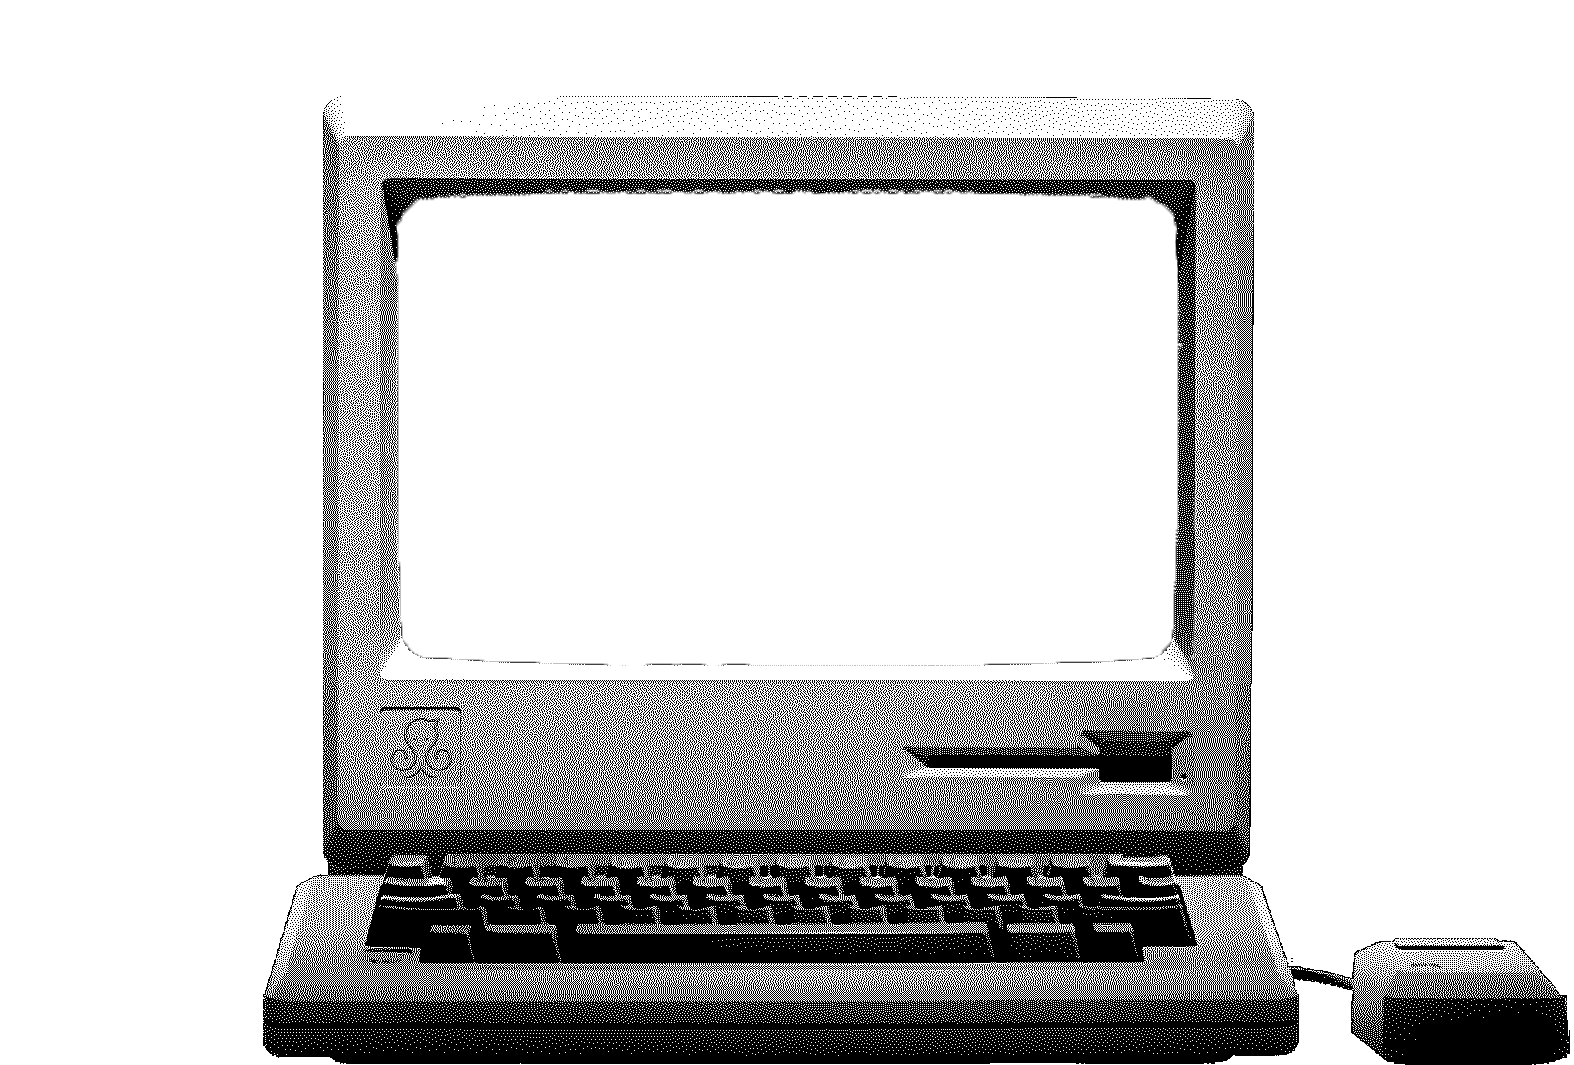
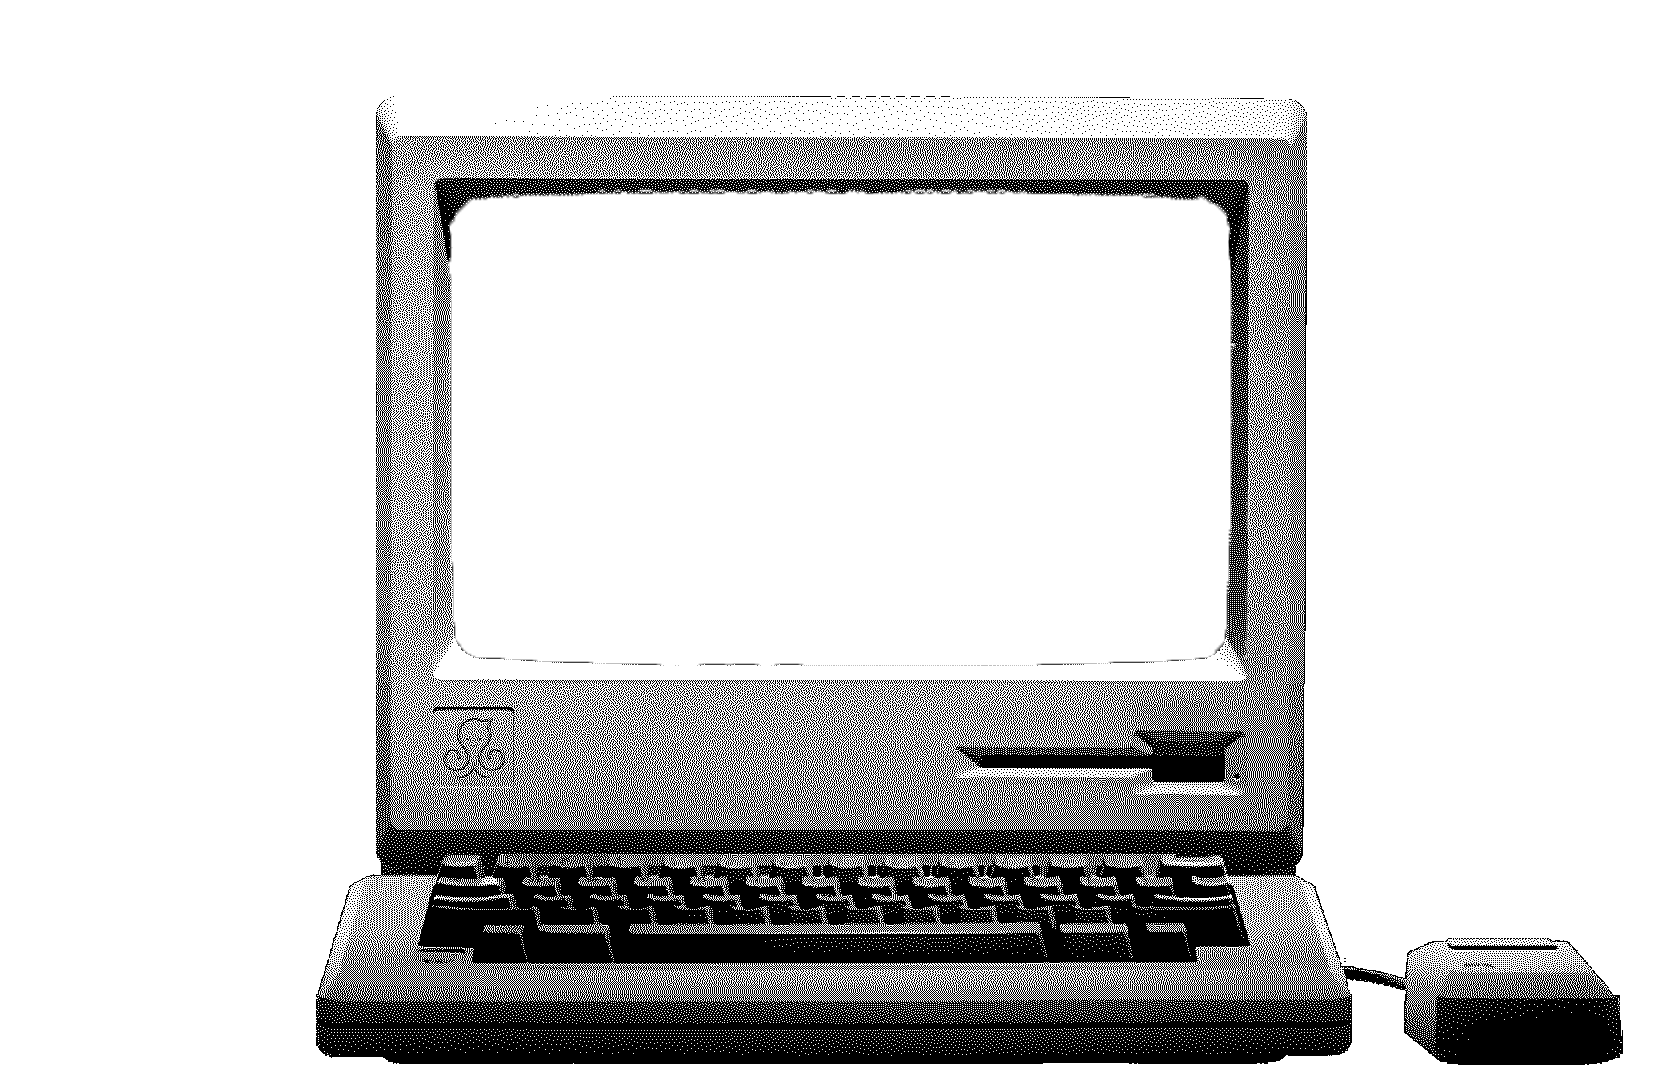
Align desktop asset to center

Changed region(s): [[0.1557, 0.093, 1.0, 1.0]]

diff --git a/src/GameScreen.tsx b/src/GameScreen.tsx
@@ -16,45 +16,43 @@ function GameScreen(props: {
   onLeaderboard: (props: IOnLeaderboard) => void;
 }) {
   const playerId = Math.floor(Math.random() * 100000);
-  const playerName = "Name";
+  const playerName = "iblan";
   const [isScoreScreen, setScoreScreen] = React.useState(false);
   const { state, tickId, duration, FPS, onLeaderboard } = props;
-  const Words = React.useMemo(
-    () =>
-      state?.words.map((word) => {
-        const { duration } = word;
-        const _word = word.getWord();
-        const typed = _word.substr(0, word.getTyped());
-        const cursor = typed ? _word.substr(word.getTyped(), 1) : null;
-        const notTyped = _word.substr(
-          typed ? word.getTyped() + 1 : word.getTyped()
-        );
+  const Words = React.useMemo(() => {
+    return state?.words.map((word) => {
+      const { duration } = word;
+      const _word = word.getWord();
+      const typed = _word.substr(0, word.getTyped());
+      const cursor = typed ? _word.substr(word.getTyped(), 1) : null;
+      const notTyped = _word.substr(
+        typed ? word.getTyped() + 1 : word.getTyped()
+      );
 
-        // duration min 500 max 10000
-        // 6000 - 60
-        const steps = Math.floor(duration / 110);
+      // duration min 500 max 10000
+      // 6000 - 60
+      const steps = Math.floor(duration / 110);
 
-        return (
-          <div
-            key={word.id}
-            className={`word toEnd eightBit`}
-            style={{
-              zIndex: cursor ? 2 : 1,
-              left: word.pos + "%",
-              transitionDuration: `${duration}ms`,
-              animationDuration: `${duration}ms`,
-              animationTimingFunction: `steps(${steps}, end)`,
-              transitionTimingFunction: `steps(${steps}, end)`,
-            }}
-          >
-            <span className="outlined_inverted">{typed}</span>
-            {cursor ? <span className="cursor">{cursor}</span> : null}
-            <span>{notTyped}</span>
-          </div>
-        );
-      }),
-    [state?.words || []]
-  );
+      return (
+        <div
+          key={word.id}
+          className={`word toEnd eightBit`}
+          style={{
+            zIndex: cursor ? 2 : 1,
+            left: word.pos + "%",
+            transitionDuration: `${duration}ms`,
+            animationDuration: `${duration}ms`,
+            animationTimingFunction: `steps(${steps}, end)`,
+            transitionTimingFunction: `steps(${steps}, end)`,
+          }}
+        >
+          <span className="outlined_inverted">{typed}</span>
+          {cursor ? <span className="cursor">{cursor}</span> : null}
+          <span>{notTyped}</span>
+        </div>
+      );
+    });
+  }, [state?.words || []]);
   const particles = state?.getParticles() || [];
   const Particles = React.useMemo(
     () => particles.map((particle) => <Particle {...particle} />),
@@ -156,7 +154,7 @@ function GameScreen(props: {
             bottom: "36px",
             left: "36px",
             willChange: "transform",
-            transition: `transform ${Math.floor(1000 / FPS)}ms`,
+            transition: `transform ${Math.floor(1100 / FPS)}ms linear`,
             transform: `translate3d(0,${Math.floor(
               map(deadlinePos, 0, 1, -978, 0)
             )}px,0)`,

diff --git a/src/App.css b/src/App.css
@@ -123,7 +123,7 @@
 
 .game.leaderboard .deadline-container {
   transform: translate3d(0px, -2.2em, 0px) !important;
-  transition-delay: 15ms !important;
+  /* transition-delay: 15ms !important; */
 }
 
 .game.leaderboard .deadline-container,
@@ -145,7 +145,7 @@
 .game.leaderboard .score-in-deadline {
   opacity: 1;
   transform: translateY(0);
-  transition: all 300ms;
+  transition: all 500ms;
   transition-delay: 1200ms;
 }
 
@@ -165,8 +165,8 @@
   opacity: 0;
   transition-delay: 0s, 1200ms !important;
   transition-property: transform, opacity !important;
-  transition-timing-function: linear, ease !important;
-  transition-duration: 800ms, 220ms !important;
+  transition-timing-function: linear, steps(10) !important;
+  transition-duration: 800ms, 500ms !important;
 }
 
 .game .deadline,
@@ -270,8 +270,8 @@
 .game .viewport {
   position: absolute;
   top: 230px;
-  left: 60px;
-  right: 105px;
+  left: 110px;
+  width: 920px;
   bottom: 325px;
   overflow: hidden;
 }
@@ -304,7 +304,8 @@
   position: fixed;
   right: 100px;
   bottom: 100px;
-  transition: opacity 300ms;
+  transition: opacity 500ms;
+  transition-timing-function: steps(10);
 }
 
 .button {

diff --git a/src/Game.ts b/src/Game.ts
@@ -54,7 +54,7 @@ function Game({ duration = 30 * 1000, WORDS = [], PLAYER_OFFSET }: IGame) {
     const duration = Math.floor(
       3800 + word.length * (1200 + Math.random() * 600)
     );
-    const levelMultiplier = score >= 200 ? 1 / (score / 200) : 1;
+    const levelMultiplier = score >= 200 ? 1 / (score / 500) : 1;
 
     return duration * levelMultiplier;
   };

diff --git a/src/App.tsx b/src/App.tsx
@@ -82,7 +82,8 @@ const FPS = 30;
 const WORDS = Lib();
 
 // const DURATION = 30 * 1000;
-const DURATION = 1000;
+const DURATION = 60 * 1000; // minute
+// const DURATION = 1000;
 
 function App() {
   const [leaderboard, setLeaderboard] = useState<null | {
